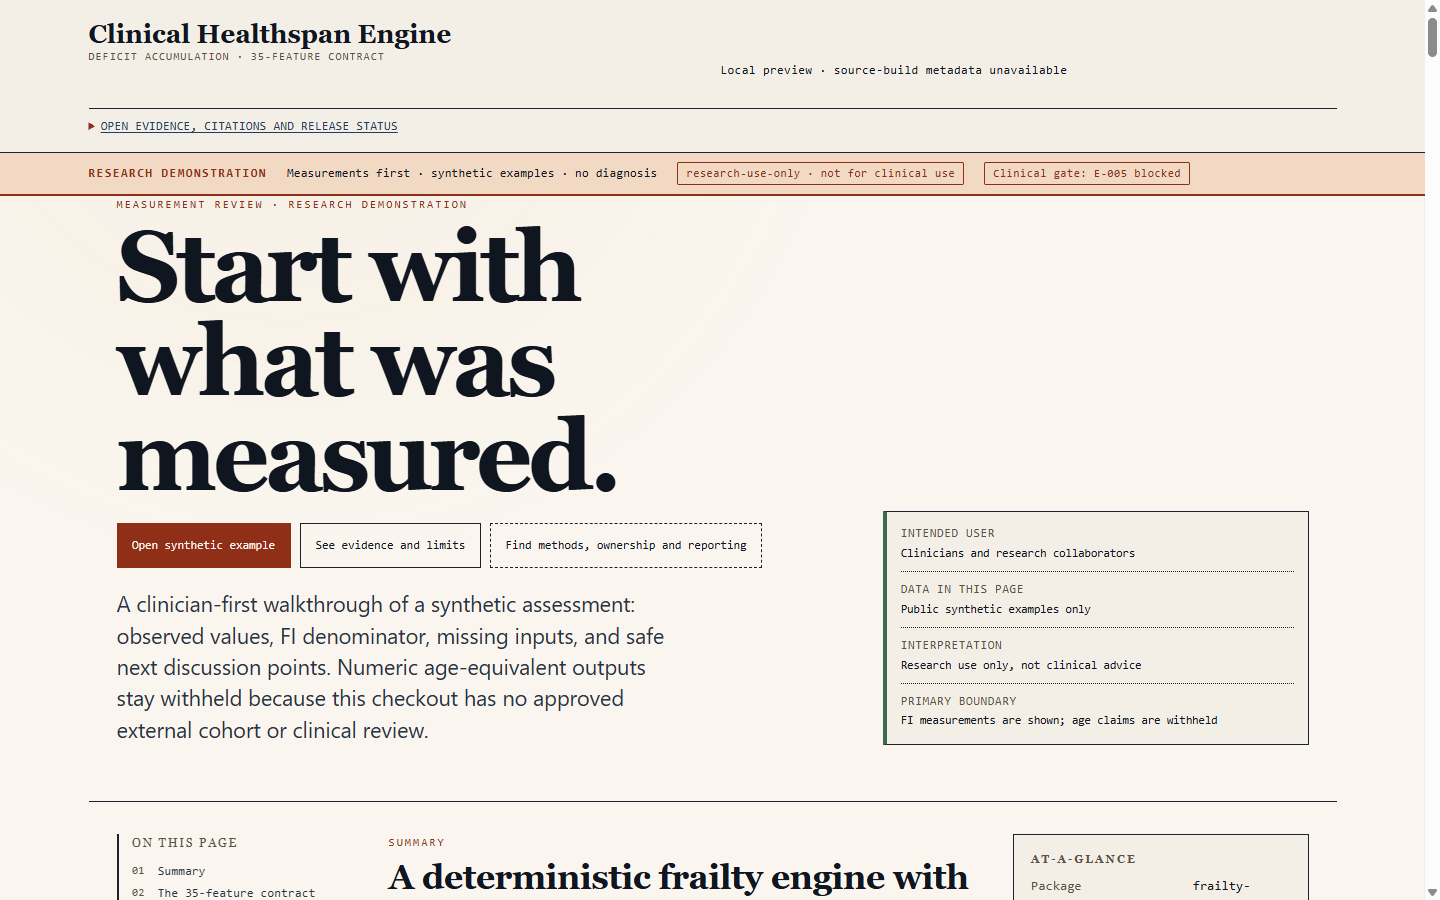
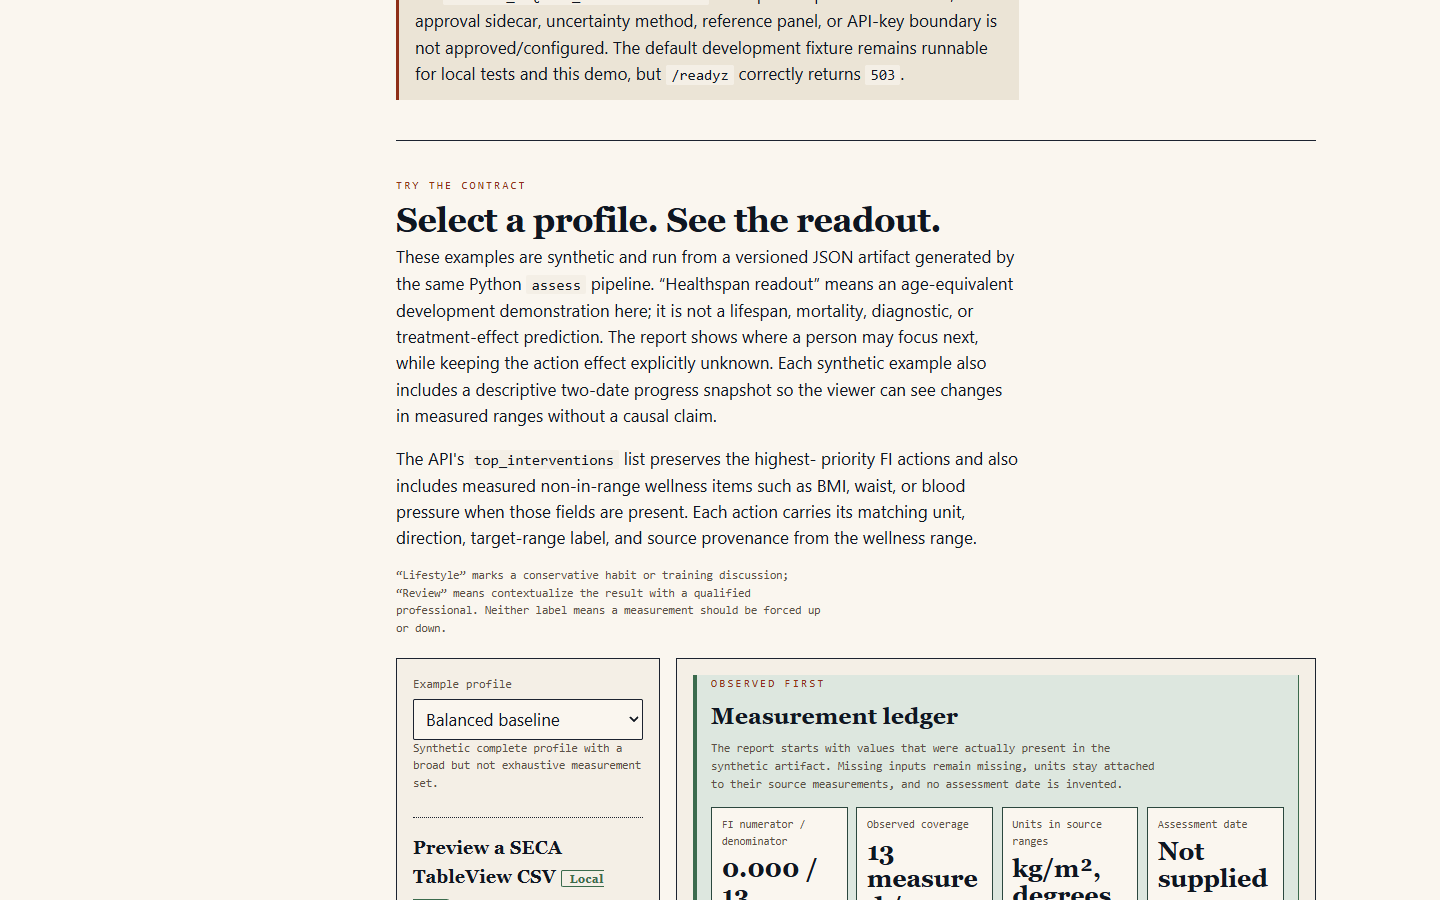
Include final report border styling and review capture

diff --git a/docs/site.css b/docs/site.css
@@ -1006,7 +1006,7 @@ pre[data-copyable] { position: relative; padding-right: 5rem; }
   min-width: 0;
   padding: 0.6rem;
   background: var(--paper);
-  border: 1px solid color-mix(in srgb, var(--archive) 50%, var(--rule));
+  border: 1px solid var(--rule);
 }
 .measurement-ledger span,
 .measurement-ledger strong,
